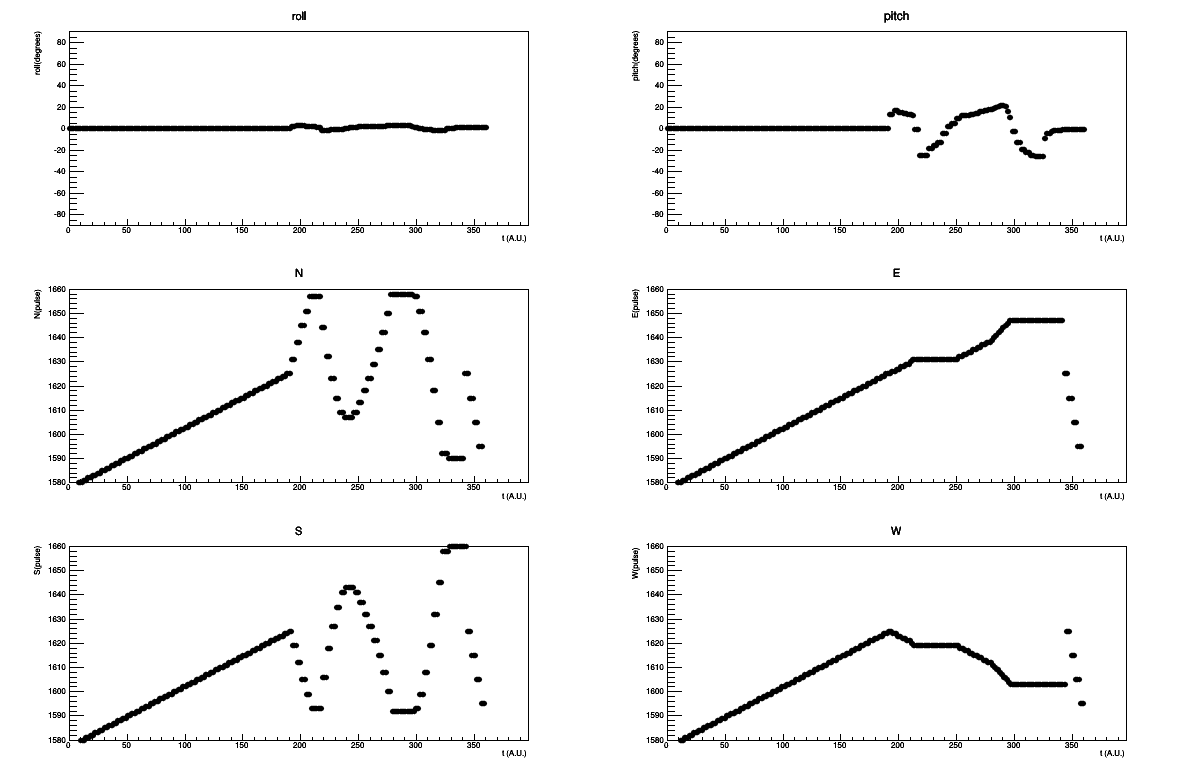
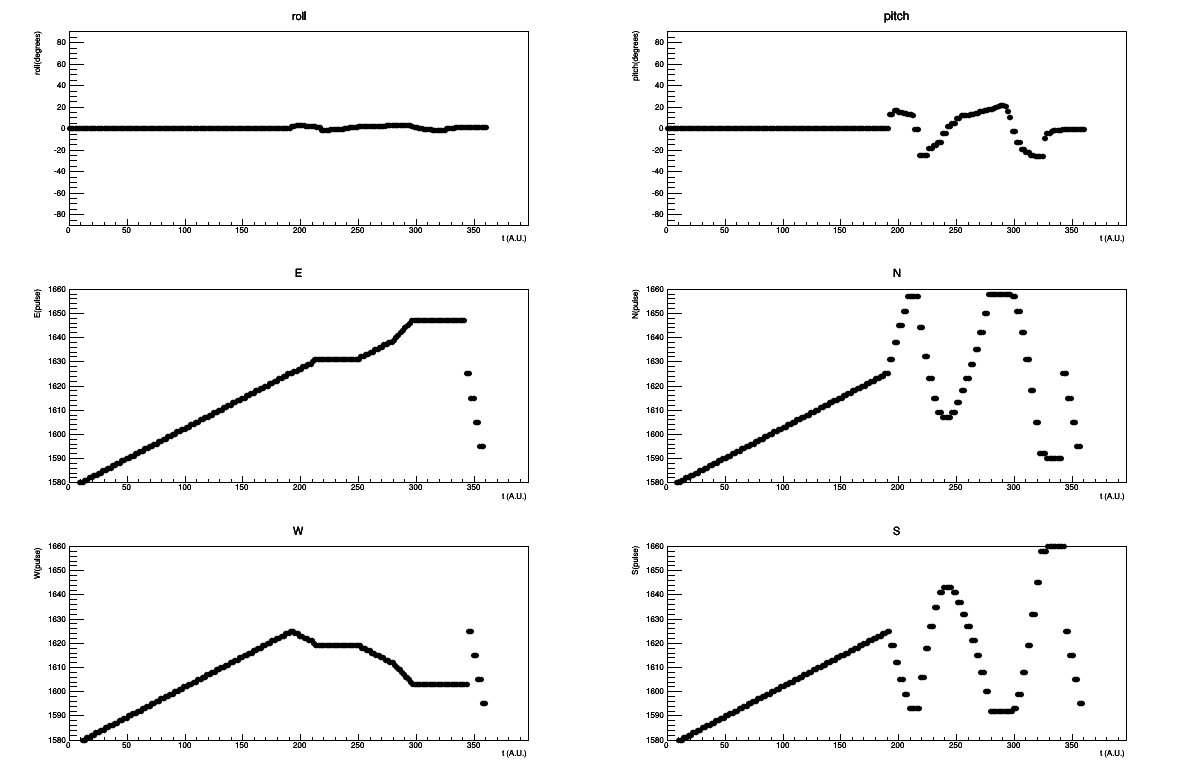
compiling

diff --git a/plot/XYquad.C b/plot/XYquad.C
@@ -37,42 +37,42 @@ void XYquad(){
     Ca0->Divide(2,3);
     Ca0_1->cd();
     grp_roll->SetTitle("roll");  grp_roll->SetLineColor(kRed);
-    grp_roll->SetMarkerStyle(20);  grp_roll->SetMarkerSize(0.7);
+    grp_roll->SetMarkerStyle(20);  grp_roll->SetMarkerSize(0.5);
     grp_roll->SetMinimum(-90);  grp_roll->SetMaximum(90);
     grp_roll->GetXaxis()->SetTitle("t (A.U.)"); grp_roll->GetYaxis()->SetTitle("roll(degrees)");
     grp_roll->Draw("AP");
 
     Ca0_2->cd();
     grp_pitch->SetTitle("pitch");  grp_pitch->SetLineColor(kRed);
-    grp_pitch->SetMarkerStyle(20);  grp_pitch->SetMarkerSize(0.7);
+    grp_pitch->SetMarkerStyle(20);  grp_pitch->SetMarkerSize(0.5);
     grp_pitch->SetMinimum(-90);  grp_pitch->SetMaximum(90);
     grp_pitch->GetXaxis()->SetTitle("t (A.U.)"); grp_pitch->GetYaxis()->SetTitle("pitch(degrees)");
     grp_pitch->Draw("AP");
     
-    Ca0_3->cd();
+    Ca0_4->cd();
     grp_N->SetTitle("N");  grp_N->SetLineColor(kRed);
-    grp_N->SetMarkerStyle(20);  grp_N->SetMarkerSize(0.7);
+    grp_N->SetMarkerStyle(20);  grp_N->SetMarkerSize(0.5);
     grp_N->SetMinimum(min_spin_T);  grp_N->SetMaximum(max_allowed_T);
     grp_N->GetXaxis()->SetTitle("t (A.U.)"); grp_N->GetYaxis()->SetTitle("N(pulse)");
     grp_N->Draw("AP");
 
-    Ca0_4->cd();
+    Ca0_3->cd();
     grp_E->SetTitle("E");  grp_E->SetLineColor(kRed);
-    grp_E->SetMarkerStyle(20);  grp_E->SetMarkerSize(0.7);
+    grp_E->SetMarkerStyle(20);  grp_E->SetMarkerSize(0.5);
     grp_E->SetMinimum(min_spin_T);  grp_E->SetMaximum(max_allowed_T);
     grp_E->GetXaxis()->SetTitle("t (A.U.)"); grp_E->GetYaxis()->SetTitle("E(pulse)");
     grp_E->Draw("AP");
 
-    Ca0_5->cd();
+    Ca0_6->cd();
     grp_S->SetTitle("S");  grp_S->SetLineColor(kRed);
-    grp_S->SetMarkerStyle(20);  grp_S->SetMarkerSize(0.7);
+    grp_S->SetMarkerStyle(20);  grp_S->SetMarkerSize(0.5);
     grp_S->SetMinimum(min_spin_T);  grp_S->SetMaximum(max_allowed_T);
     grp_S->GetXaxis()->SetTitle("t (A.U.)"); grp_S->GetYaxis()->SetTitle("S(pulse)");
     grp_S->Draw("AP");
 
-    Ca0_6->cd();
+    Ca0_5->cd();
     grp_W->SetTitle("W");  grp_W->SetLineColor(kRed);
-    grp_W->SetMarkerStyle(20);  grp_W->SetMarkerSize(0.7);
+    grp_W->SetMarkerStyle(20);  grp_W->SetMarkerSize(0.5);
     grp_W->SetMinimum(min_spin_T);  grp_W->SetMaximum(max_allowed_T);
     grp_W->GetXaxis()->SetTitle("t (A.U.)"); grp_W->GetYaxis()->SetTitle("W(pulse)");
     grp_W->Draw("AP");

diff --git a/code.cpp b/code.cpp
@@ -61,7 +61,7 @@ int main(){
 //--- Functions
 float differecnce(float Ax,float Ay,float Bx,float By){return 1;}  
 
-void  Quad::Throttle(uint motorID,int throttle){
+void  Quad::Throttle(uint motorID,uint throttle){
   if(ramping==false && throttle<(min_spin_T+10)){ std::cout<<"ERROR: min throttle excceed (min_spin_T)"<<std::endl; return;}
   if(ramping==false && throttle>max_allowed_T){ std::cout<<"ERROR: max throttle excceed (max_allowed_T)"<<std::endl; return;}
   myfile <<motorID<<"="<<throttle; myfile.seekp(0);
@@ -82,7 +82,7 @@ void  Quad::ThrottleAllplusplus(){
   Quad::Throttle(W,W_t+1); 
 }
 
-void  Quad::ThrottleAll(int throttle){
+void  Quad::ThrottleAll(uint throttle){
   Quad::Throttle(N,throttle); 
   Quad::Throttle(E,throttle); 
   Quad::Throttle(S,throttle); 
